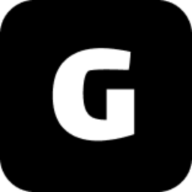
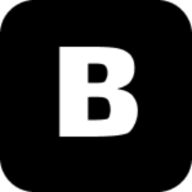
Converting to bai

Changed region(s): [[0.25, 0.2188, 0.7188, 0.75]]

diff --git a/src/components/Nav.tsx b/src/components/Nav.tsx
@@ -14,6 +14,7 @@ import Link from "next/link";
 import Notifications from "./Notifications";
 import { Avatar, AvatarFallback, AvatarImage } from "./ui/avatar";
 import { Skeleton } from "./ui/skeleton";
+import Image from 'next/image';
 
 const Nav = ({
   email,
@@ -32,7 +33,7 @@ const Nav = ({
     <nav className="flex items-center justify-between border-b border-black/10 p-4 font-primary">
       <div className="-mb-2 flex items-center gap-2">
         <Link href="/">
-          <h1 className="font-primary text-4xl font-bold md:text-5xl">GChat</h1>
+          <Image src="/logo.png" width={500} height={500} alt="Logo" className="w-10" />
         </Link>
       </div>
 

diff --git a/src/components/user/CoverButton.tsx b/src/components/user/CoverButton.tsx
@@ -76,8 +76,8 @@ const CoverButton = ({
   return (
     <div className="relative m-5 mb-8 h-fit w-fit font-primary ">
       <Button
-        variant="ghost"
-        className="rounded-md bg-white px-5  py-2 font-primary text-sm font-semibold text-black"
+        variant="secondary"
+        className="rounded-md px-5  py-2 font-primary text-sm font-semibold text-black"
         onClick={() => {
           setOpen(true);
         }}

diff --git a/src/app/layout.tsx b/src/app/layout.tsx
@@ -19,7 +19,7 @@ const montserrat = Montserrat({
   display: "swap",
 });
 export const metadata: Metadata = {
-  title: "GChat",
+  title: "BAI",
   description: "Globally chat without worrying on language barriers.",
   icons: [{ rel: "icon", url: "/favicon.ico" }],
 };
